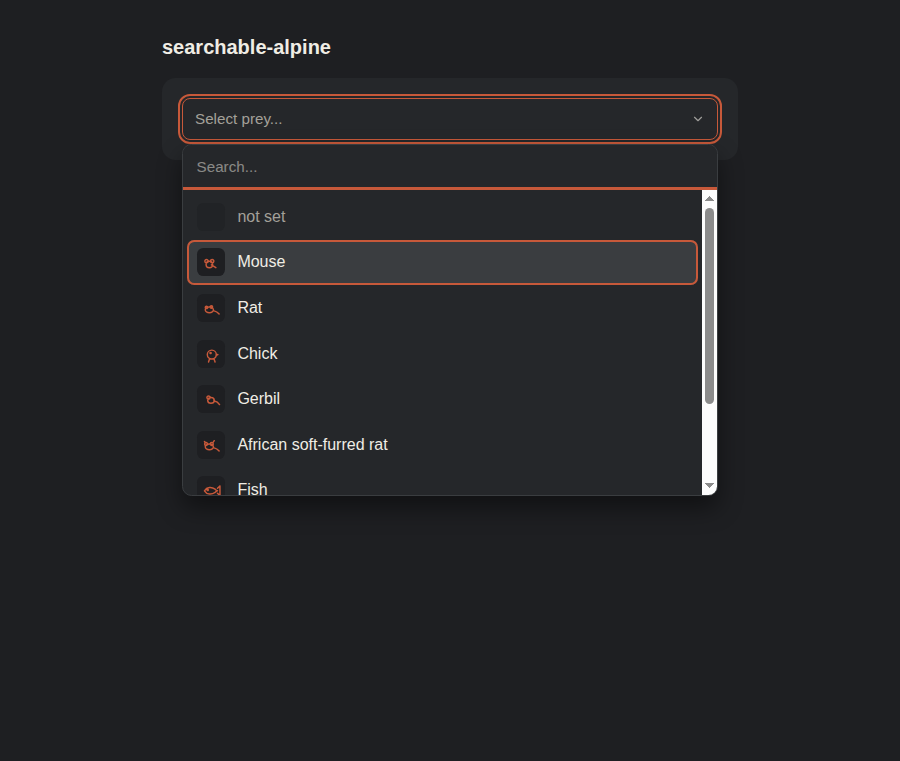
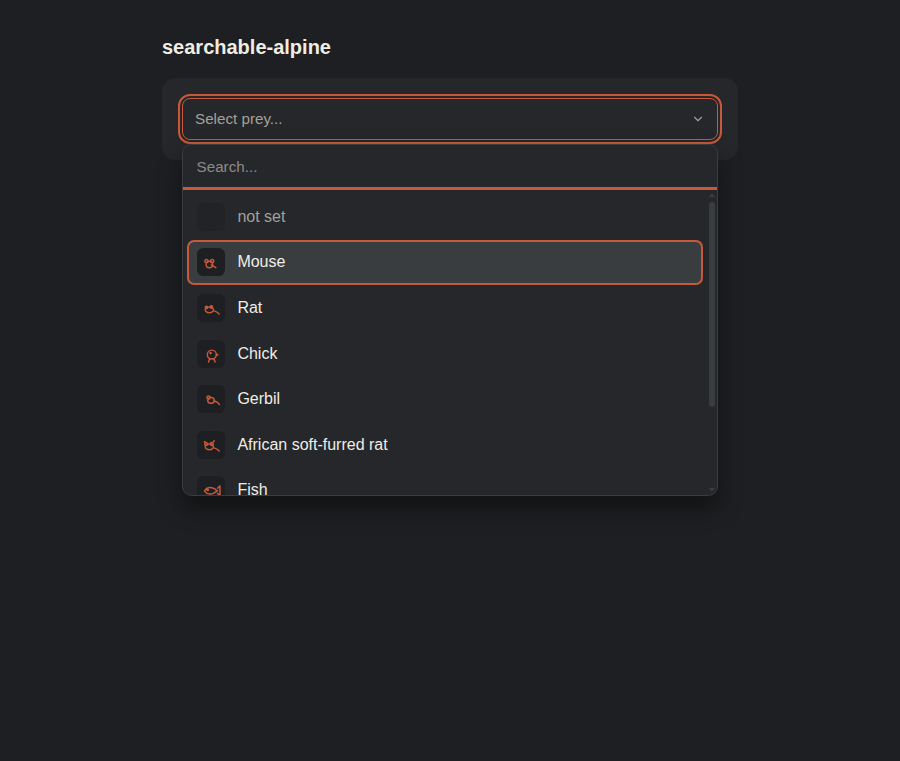
v2.3.2 · theme the dropdown scrollbar
The .lc-select__list overflow rendered with the host browser's
default scrollbar · light grey on dark menus, jarring next to the
fish-orange accent. Style it via scrollbar-width/scrollbar-color
(Firefox) and ::-webkit-scrollbar pseudos so the thumb picks up
--lc-border (with --lc-ink-dim on hover) over a transparent track.

Screenshots regenerated via bin/screenshots.sh; the searchable and
multi dropdown captures now show the themed scrollbar.

Changed region(s): [[0.7778, 0.2418, 0.8089, 0.6649]]

diff --git a/resources/views/styles.blade.php b/resources/views/styles.blade.php
@@ -94,7 +94,32 @@
     border-bottom-color: var(--lc-accent);
     box-shadow: inset 0 -2px 0 0 var(--lc-accent);
 }
-.lc-select__list { list-style: none; margin: 0; padding: .25rem; overflow-y: auto; }
+.lc-select__list {
+    list-style: none;
+    margin: 0;
+    padding: .25rem;
+    overflow-y: auto;
+    /* Themed scrollbar · Firefox first, then WebKit. The track stays
+       transparent so the menu's --lc-menu-bg shows through; the thumb
+       picks up the host theme's --lc-border with a hover state on
+       --lc-ink-dim. */
+    scrollbar-width: thin;
+    scrollbar-color: var(--lc-border) transparent;
+}
+.lc-select__list::-webkit-scrollbar { width: 10px; }
+.lc-select__list::-webkit-scrollbar-track { background: transparent; }
+.lc-select__list::-webkit-scrollbar-thumb {
+    background: var(--lc-border);
+    border-radius: 999px;
+    /* 2px transparent border around the thumb gives the appearance of
+       a rounded bar floating inside the track rather than filling it. */
+    border: 2px solid transparent;
+    background-clip: padding-box;
+}
+.lc-select__list::-webkit-scrollbar-thumb:hover {
+    background: var(--lc-ink-dim);
+    background-clip: padding-box;
+}
 .lc-select__item {
     display: flex;
     align-items: center;